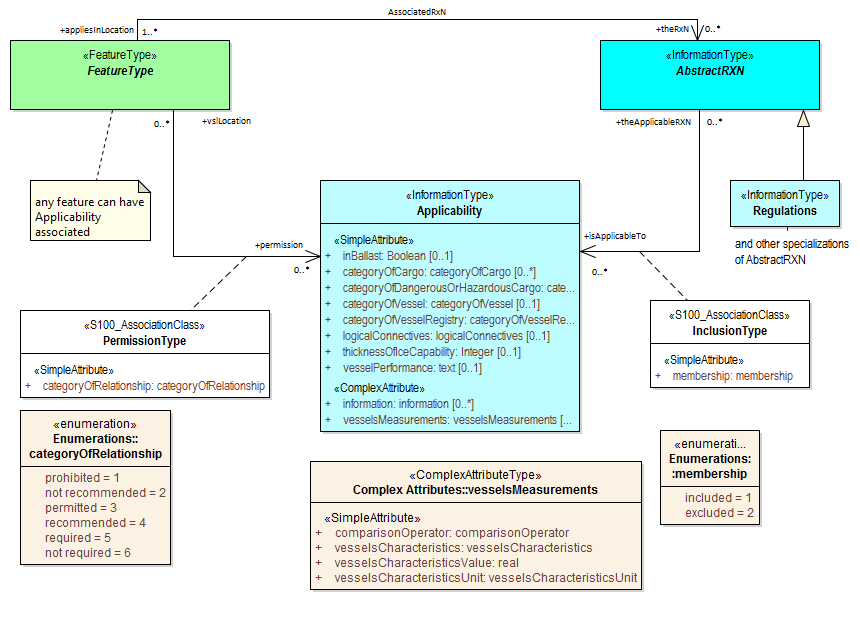
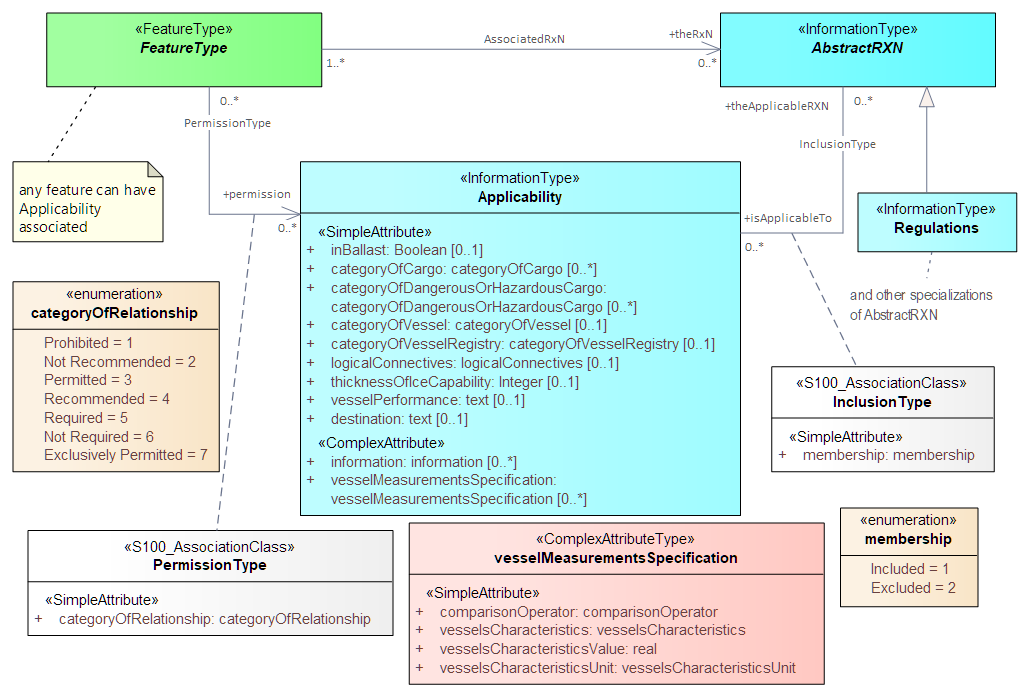
Application schema for 2.0.0
UML diagrams of the application schema for S-131 2.0.0

diff --git a/EAP/UML-images/README.md b/EAP/UML-images/README.md
@@ -1,0 +1,5 @@
+# UML diagrams
+
+This folder is for work-in-progress UML diagrams for the Application Schema and other parts of the product specification package as appropriate.
+
+Currently contains Edition 2.0.0 Application Schema UML diagrams
